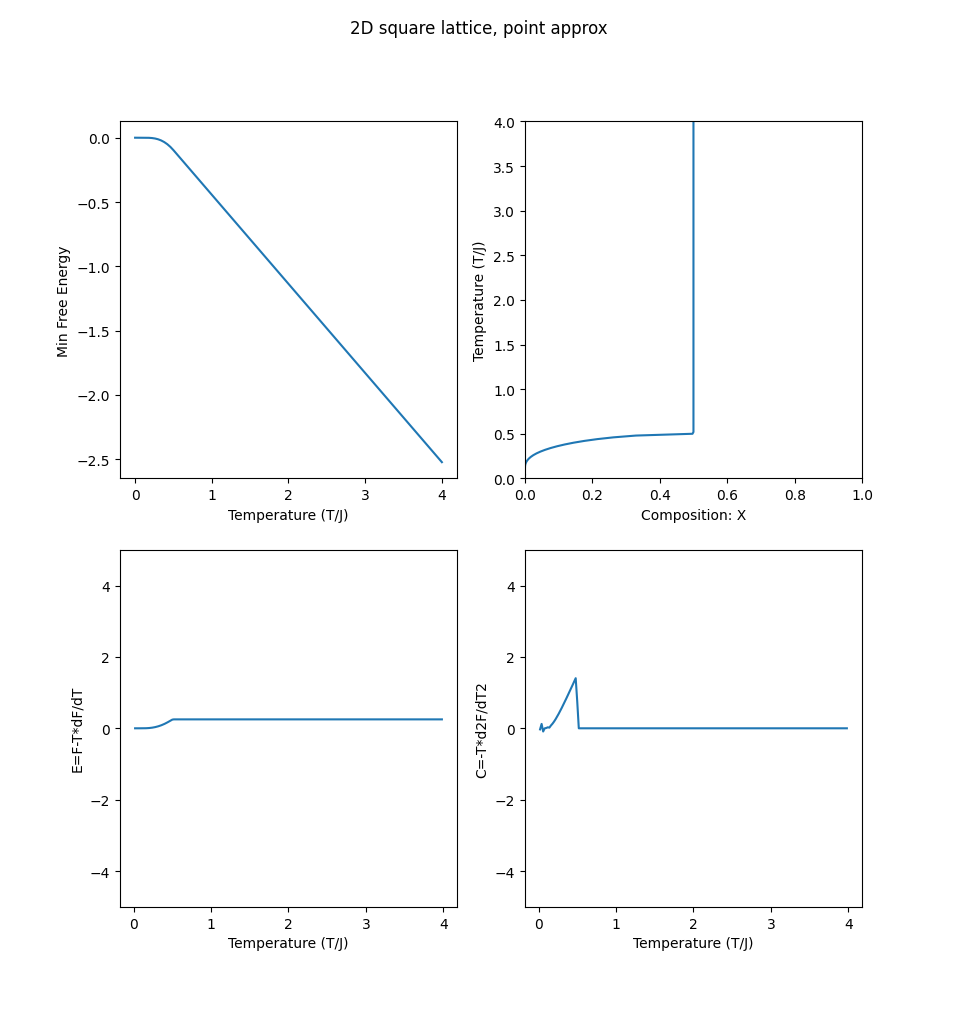
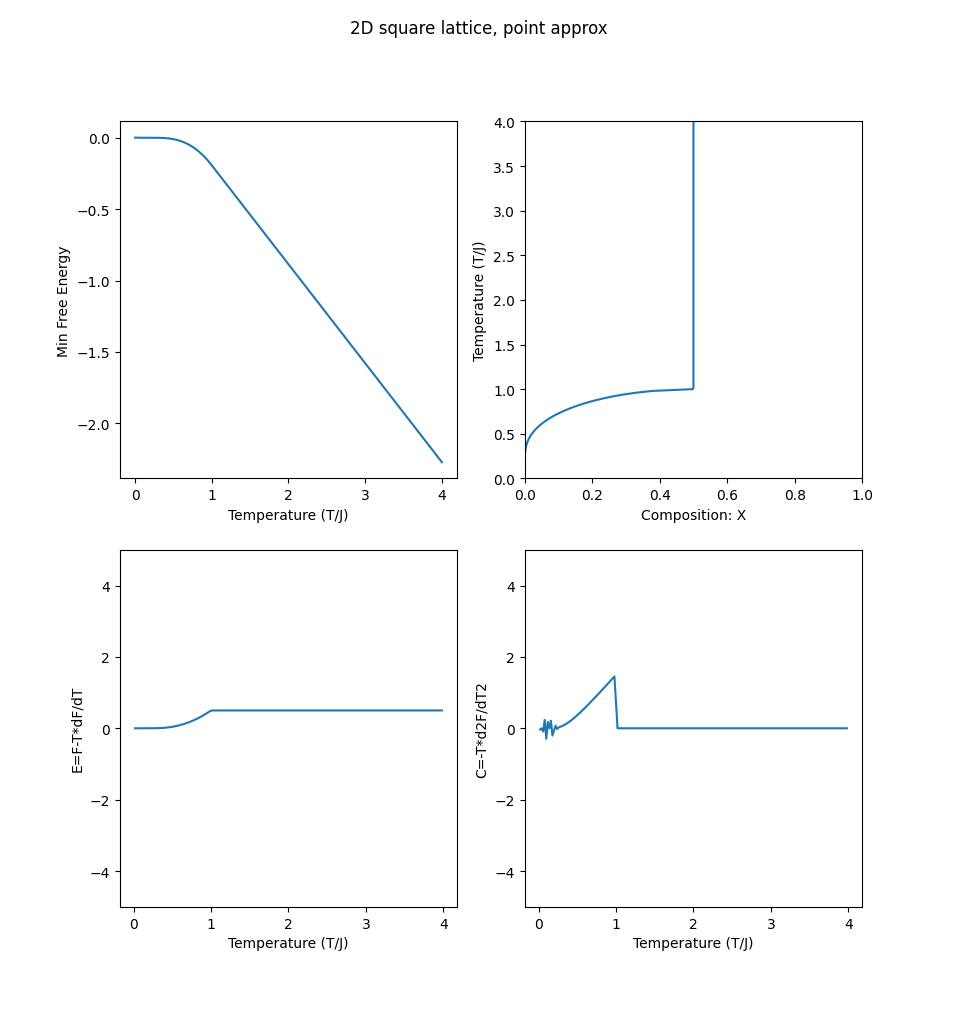
updated point graphs

diff --git a/binary/2D/point.py b/binary/2D/point.py
@@ -14,7 +14,7 @@ def xlx(x):
     return x*math.log(x)
 
 def H(J,h,x):
-    return -J*x*(1-x)-h*x
+    return -J*(Z/2)*x*(1-x)-h*x
 
 def S(x):
     return -xlx(x)-xlx(1-x)
